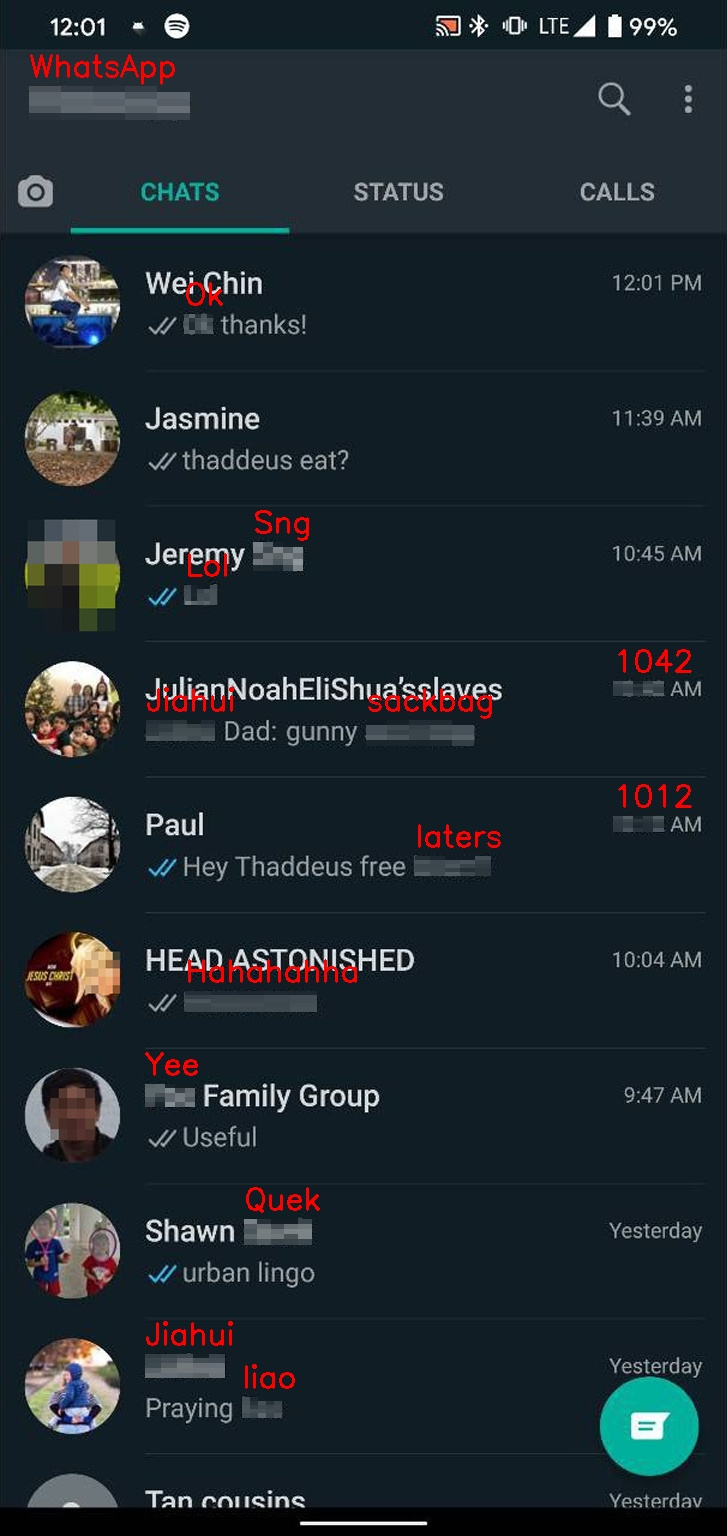
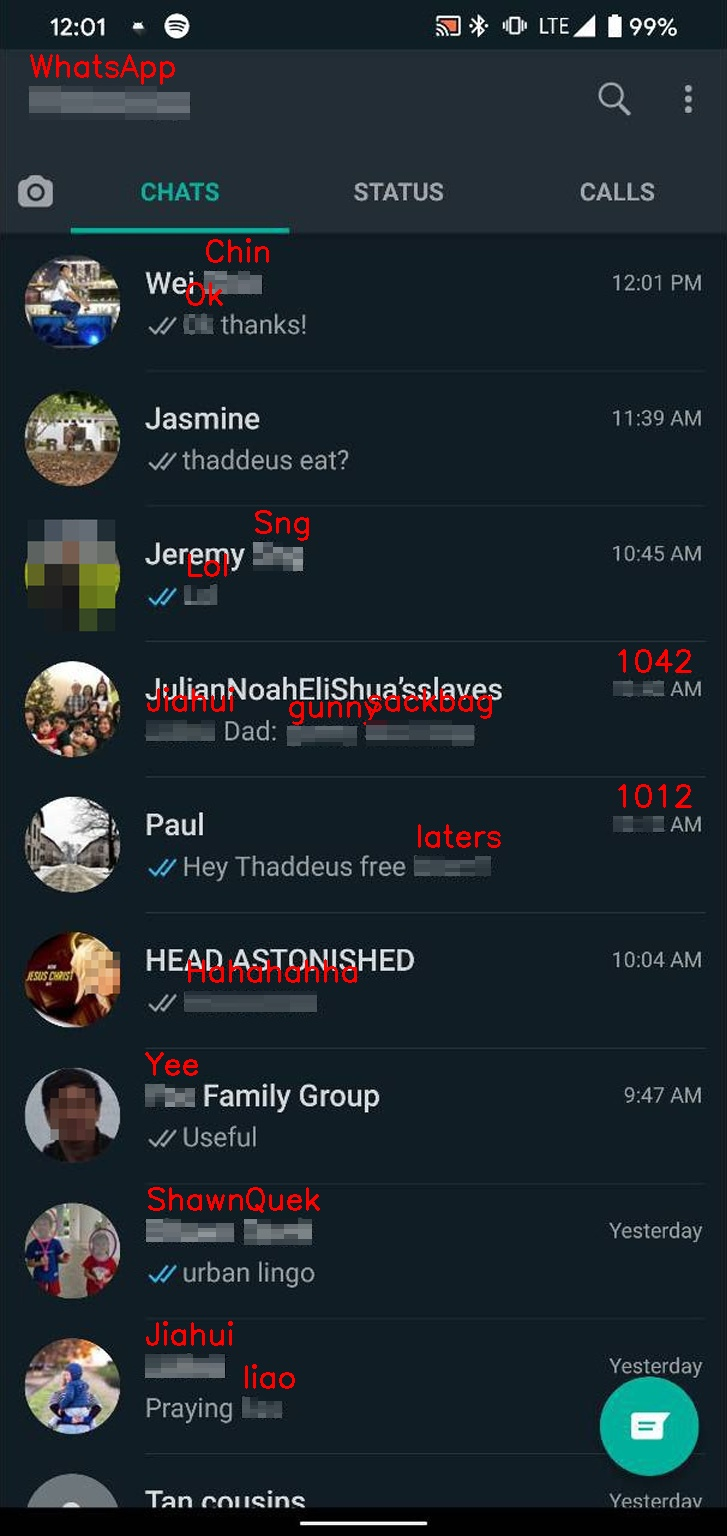
spacy done

Changed region(s): [[0.1816, 0.75, 0.3329, 0.8125], [0.3934, 0.4375, 0.5144, 0.5], [0.2724, 0.1562, 0.3631, 0.2188]]

diff --git a/new_detection.py b/new_detection.py
@@ -16,9 +16,11 @@ from PIL import Image
 import numpy as np
 from matplotlib import pyplot as plt
 from tqdm.notebook import tqdm
+import spacy
 
 
 
+nlp = spacy.load("en_core_web_sm")
 english_dictionary = enchant.Dict("en_US")
 
 
@@ -64,7 +66,7 @@ def drawBoxes(im, boxes):
 	y2 = boxes[:,3]
 	for i in range(x1.shape[0]):
 	#     cv2.rectangle(im, (int(x1[i]), int(y1[i])), (int(x2[i]), int(y2[i])), (0,255,0), 1)
-		print(x1,x2,y1,y2)
+		# print(x1,x2,y1,y2)
 		face = im[int(y1[i]):int(y2[i]), int(x1[i]):int(x2[i])]
 		face = anonymize_face_pixelate(face)
 		im[int(y1[i]):int(y2[i]), int(x1[i]):int(x2[i])] = face
@@ -91,78 +93,92 @@ factor = 0.709
 
 
 for img in range(len(images)):
-    image = cv2.imread(images[img])
+	image = cv2.imread(images[img])
 
 
-    img_matlab = image.copy()
-    tmp = img_matlab[:,:,2].copy()
-    img_matlab[:,:,2] = img_matlab[:,:,0]
-    img_matlab[:,:,0] = tmp
+	img_matlab = image.copy()
+	tmp = img_matlab[:,:,2].copy()
+	img_matlab[:,:,2] = img_matlab[:,:,0]
+	img_matlab[:,:,0] = tmp
 
-    # boundingboxes, points = detect_face(img_matlab, minsize, PNet, RNet, ONet, threshold, False, factor)
-    # Detect face
-    boxes, probs, landmarks = mtcnn.detect(image, landmarks=True)
-    # print(boxes)
-    if boxes is not None:
-        # print(boxes)
-        image = drawBoxes(image, boxes)
-
-
-    image = cv2.resize(image, None, fx=1.2, fy=1.2,interpolation=cv2.INTER_CUBIC )
-    kernel = np.ones((1, 1), np.uint8)
-    image = cv2.dilate(image, kernel, iterations=1)
-    image = cv2.erode(image, kernel, iterations=1)
-    gray = cv2.cvtColor(image, cv2.COLOR_BGR2GRAY)
-
-    cv2.threshold(cv2.GaussianBlur(gray, (5, 5), 0), 0, 255, cv2.THRESH_BINARY + cv2.THRESH_OTSU)[1]
-
-    cv2.threshold(cv2.bilateralFilter(gray, 5, 75, 75), 0, 255, cv2.THRESH_BINARY + cv2.THRESH_OTSU)[1]
-
-    cv2.threshold(cv2.medianBlur(gray, 3), 0, 255, cv2.THRESH_BINARY + cv2.THRESH_OTSU)[1]
-
-    cv2.adaptiveThreshold(cv2.GaussianBlur(gray, (5, 5), 0), 255, cv2.ADAPTIVE_THRESH_GAUSSIAN_C, cv2.THRESH_BINARY, 31, 2)
-
-    cv2.adaptiveThreshold(cv2.bilateralFilter(gray, 9, 75, 75), 255, cv2.ADAPTIVE_THRESH_GAUSSIAN_C, cv2.THRESH_BINARY, 31, 2)
-
-    cv2.adaptiveThreshold(cv2.medianBlur(gray, 3), 255, cv2.ADAPTIVE_THRESH_GAUSSIAN_C, cv2.THRESH_BINARY, 31, 2)
+	# boundingboxes, points = detect_face(img_matlab, minsize, PNet, RNet, ONet, threshold, False, factor)
+	# Detect face
+	boxes, probs, landmarks = mtcnn.detect(image, landmarks=True)
+	# print(boxes)
+	if boxes is not None:
+		# print(boxes)
+		image = drawBoxes(image, boxes)
 
 
-    results = pytesseract.image_to_data(gray, output_type=Output.DICT)
-    for i in range(0, len(results["text"])):
-    	# extract the bounding box coordinates of the text region from
-    	# the current result
-    	x = results["left"][i]
-    	y = results["top"][i]
-    	w = results["width"][i]
-    	h = results["height"][i]
+	image = cv2.resize(image, None, fx=1.2, fy=1.2,interpolation=cv2.INTER_CUBIC )
+	kernel = np.ones((1, 1), np.uint8)
+	image = cv2.dilate(image, kernel, iterations=1)
+	image = cv2.erode(image, kernel, iterations=1)
+	gray = cv2.cvtColor(image, cv2.COLOR_BGR2GRAY)
 
-    	# extract the OCR text itself along with the confidence of the
-    	# text localization
-    	text = results["text"][i]
-    	conf = int(results["conf"][i])
-    	# filter out weak confidence text localizations
-    	if conf > 80:
-    		text = re.sub(r'[^\w\s]','',text)
-    		if text != "":
-    			
-    			if not english_dictionary.check(text) or hasNumbers(text):
-    				print("Confidence: {}".format(conf))
-    				print("Text: {}".format(text))
-    				print("")
+	cv2.threshold(cv2.GaussianBlur(gray, (5, 5), 0), 0, 255, cv2.THRESH_BINARY + cv2.THRESH_OTSU)[1]
 
-    				tex = image[y:y+h, x:x+w]
-    				tex = anonymize_face_pixelate(tex)
-    				image[y:y+h, x:x+w] = tex
-    				# cv2.rectangle(image, (x, y), (x + w, y + h), (0, 0, 0), -1)
-    				cv2.putText(image, text, (x, y - 10), cv2.FONT_HERSHEY_SIMPLEX,
-    					1, (0, 0, 255), 2)
+	cv2.threshold(cv2.bilateralFilter(gray, 5, 75, 75), 0, 255, cv2.THRESH_BINARY + cv2.THRESH_OTSU)[1]
+
+	cv2.threshold(cv2.medianBlur(gray, 3), 0, 255, cv2.THRESH_BINARY + cv2.THRESH_OTSU)[1]
+
+	cv2.adaptiveThreshold(cv2.GaussianBlur(gray, (5, 5), 0), 255, cv2.ADAPTIVE_THRESH_GAUSSIAN_C, cv2.THRESH_BINARY, 31, 2)
+
+	cv2.adaptiveThreshold(cv2.bilateralFilter(gray, 9, 75, 75), 255, cv2.ADAPTIVE_THRESH_GAUSSIAN_C, cv2.THRESH_BINARY, 31, 2)
+
+	cv2.adaptiveThreshold(cv2.medianBlur(gray, 3), 255, cv2.ADAPTIVE_THRESH_GAUSSIAN_C, cv2.THRESH_BINARY, 31, 2)
 
 
+	results = pytesseract.image_to_data(gray, output_type=Output.DICT)
+	for i in range(0, len(results["text"])):
+		# extract the bounding box coordinates of the text region from
+		# the current result
+		x = results["left"][i]
+		y = results["top"][i]
+		w = results["width"][i]
+		h = results["height"][i]
 
-    filename = 'censored/censored_image{}.jpg'.format(img)
-    print(filename)
-    if not cv2.imwrite(filename,image):
-    	raise Exception("Could not write image")
+		# extract the OCR text itself along with the confidence of the
+		# text localization
+		text = results["text"][i]
+		conf = int(results["conf"][i])
+		# filter out weak confidence text localizations
+		if conf > 80:
+			# print(text)
+			text = re.sub(r'[^\w\s]','',text)
+			if text != "":
+				# print(text)
+				doc = nlp(text)
+				# print(text,doc.ents,len(doc.ents))
+				if(len(doc.ents)==0):
+					if not english_dictionary.check(text) or hasNumbers(text):
+						# print("Confidence: {}".format(conf))
+						# print("Text: {}".format(text))
+						# print("")
+						tex = image[y:y+h, x:x+w]
+						tex = anonymize_face_pixelate(tex)
+						image[y:y+h, x:x+w] = tex
+						cv2.putText(image, text, (x, y - 10), cv2.FONT_HERSHEY_SIMPLEX,
+							1, (0, 0, 255), 2)
+					
+				else:
+					for ent in doc.ents:
+						print(ent.text, ent.label_)
+						if(ent.label_=='PERSON') or hasNumbers(text) or not english_dictionary.check(text):
+							tex = image[y:y+h, x:x+w]
+							tex = anonymize_face_pixelate(tex)
+							image[y:y+h, x:x+w] = tex
+							# cv2.rectangle(image, (x, y), (x + w, y + h), (0, 0, 0), -1)
+							cv2.putText(image, text, (x, y - 10), cv2.FONT_HERSHEY_SIMPLEX,
+								1, (0, 0, 255), 2)
+
+
+
+
+	filename = 'censored/censored_image{}.jpg'.format(img)
+	print(filename)
+	if not cv2.imwrite(filename,image):
+		raise Exception("Could not write image")
 	
 
 	
